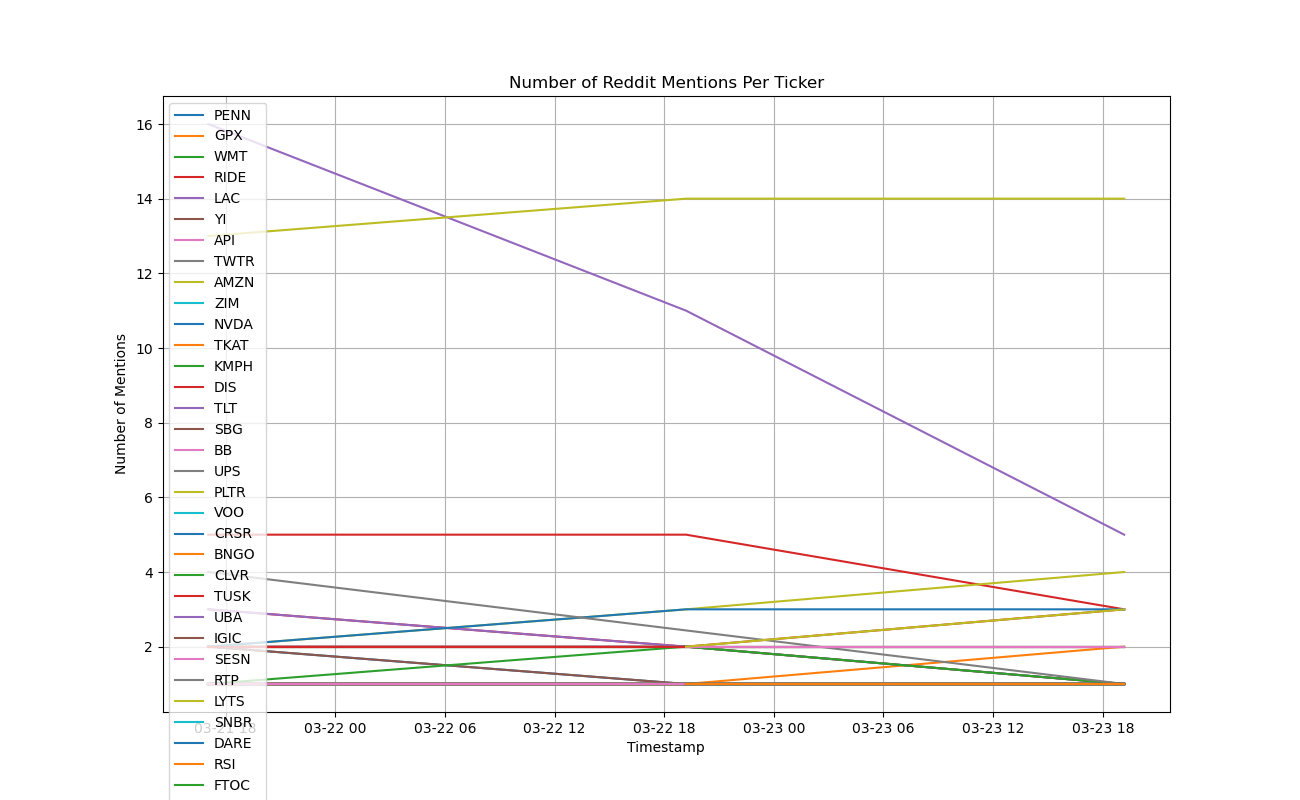
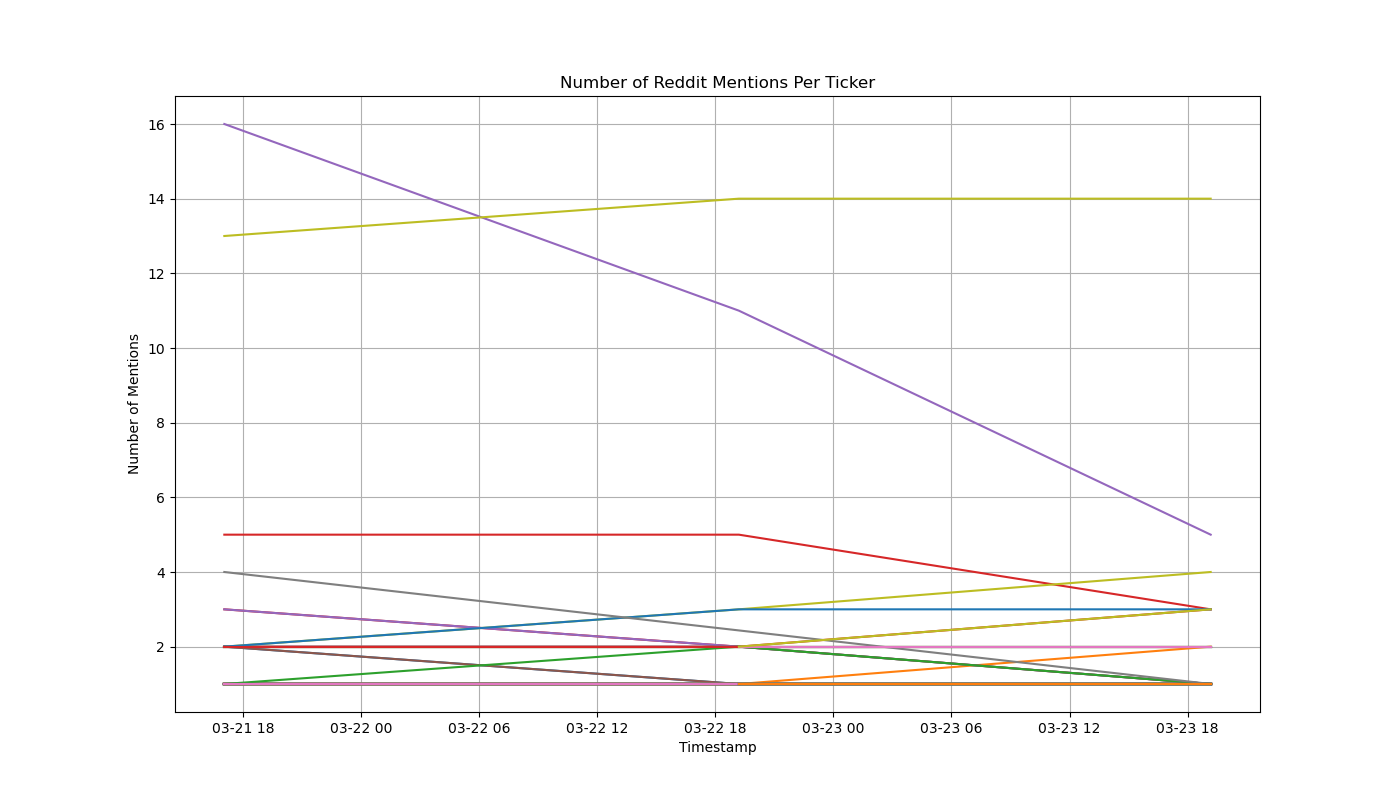
added less legends, markers, and colors

diff --git a/main.py b/main.py
@@ -8,6 +8,7 @@ import matplotlib.pyplot as plt
 import numpy as np
 import requests
 import itertools
+import random
 import time
 import re
 
@@ -21,24 +22,51 @@ def main():
             pprint("Phase 3: Saving to MongoDb")
             insertOne(db, jsonData)
         elif choice == "2":
-            pprint("Displaying Data")
-            # Data for plotting
-            fig, ax = plt.subplots(figsize=(13,8))
-            dataPoints = createLineData(findItem(db, None))
-            for key in dataPoints:
-                ax.plot(dataPoints[key]["xValues"], dataPoints[key]["yValues"], label=key)
-            ax.set(xlabel='Timestamp', ylabel='Number of Mentions',
-                title='Number of Reddit Mentions Per Ticker')
-            ax.grid()
-            ax.legend(loc="best")
-            
-            fig.savefig("test.png")
-            plt.show()
+            showData(db)
+
         elif choice == "3":
             pprint("Exiting")
             break
         else:
             pprint("Not a valid option!")
+
+def showData(db):
+    pprint("Displaying Data")
+    # Data for plotting
+    fig, ax = plt.subplots(figsize=(14,8))
+    dataPoints = createLineData(findItem(db, None))
+    maxLabel = createMaxLabels(dataPoints)
+    for key in dataPoints:
+        if key in maxLabel.keys():
+            ax.plot(dataPoints[key]["xValues"], dataPoints[key]["yValues"], marker='o', linewidth=3, label=key, color=maxLabel[key][1])
+        else:
+            ax.plot(dataPoints[key]["xValues"], dataPoints[key]["yValues"], linestyle="-")
+    ax.set(xlabel='Timestamp', ylabel='Number of Mentions',
+        title='Number of Reddit Mentions Per Ticker')
+    ax.grid()
+    ax.legend(bbox_to_anchor=(1.03, 1), loc='upper left', borderaxespad=0.)
+    
+    fig.savefig("NumberOfMentionsVsTimestamp.png")
+    plt.show()
+
+def createMaxLabels(dataPoints):
+    valueList = dict()
+    for symbol in dataPoints:
+        averageValue = average(dataPoints[symbol]["yValues"])
+        random_number = random.randint(0,16777215)
+        hex_number = str(hex(random_number))
+        hex_number ='#'+ hex_number[2:]
+        if len(valueList) < 5:
+            valueList[symbol] = (averageValue, hex_number)
+        else:
+            minTuple = min(valueList.items(), key=lambda x: x[1])
+            if minTuple[1][0] < averageValue:
+                valueList.pop(minTuple[0], None)
+                valueList[symbol] = (averageValue, hex_number)
+    return valueList
+
+def average(lst):
+    return sum(lst) / len(lst)
 
 def createLineData(postData):
     dataPoints = dict()
